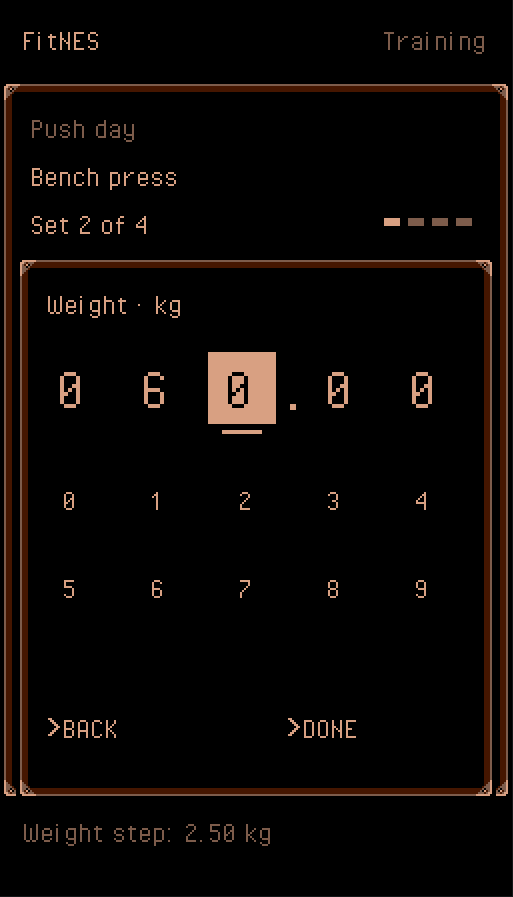
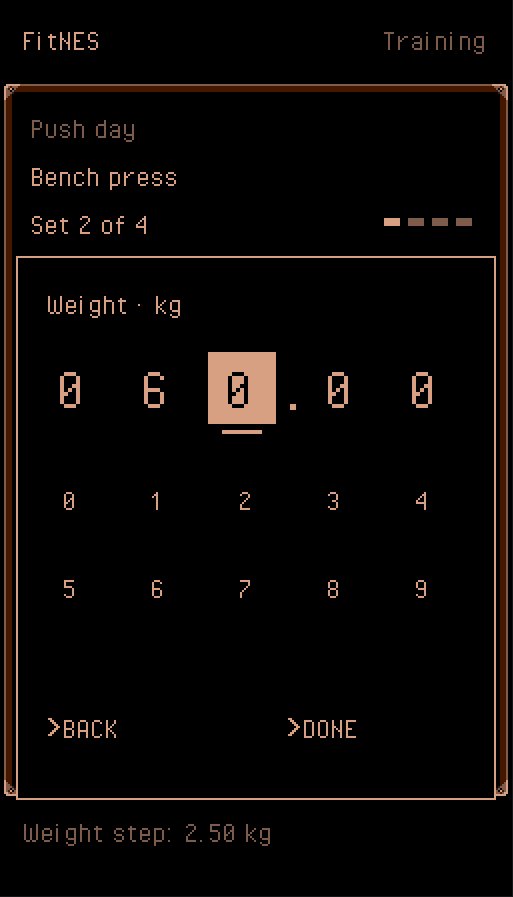
Refine numeric picker borders and press response

Changed region(s): [[0.0312, 0.2809, 0.9669, 0.9052]]

diff --git a/docs/design/touch-menus/preview.ts b/docs/design/touch-menus/preview.ts
@@ -38,6 +38,7 @@ async function start(): Promise<void> {
     const frame = new Image();
     frame.src = frameUrl;
     await frame.decode();
+    const panelArt = makeTopLevelPanel(frame);
     const requested = new URLSearchParams(location.search).get('option');
     const selected = requested ?? (matchMedia('(max-width: 1000px)').matches ? 'j' : 'all');
     if (concepts.some((concept) => concept.id === selected)) {
@@ -50,7 +51,7 @@ async function start(): Promise<void> {
     }
     for (const concept of concepts) {
         if (!document.body.dataset.single || selected === concept.id) {
-            mount(concept, frame);
+            mount(concept, panelArt);
         }
     }
     document.body.dataset.ready = 'true';
@@ -63,7 +64,7 @@ interface Concept {
     tradeoff: string;
 }
 
-function mount(concept: Concept, frame: HTMLImageElement): void {
+function mount(concept: Concept, panelArt: HTMLCanvasElement): void {
     const article = document.createElement('article');
     article.className = 'alternative';
     article.dataset.option = concept.id;
@@ -86,7 +87,7 @@ function mount(concept: Concept, frame: HTMLImageElement): void {
         pressed: '',
         edit: null,
     };
-    const demo: Demo = { concept, frame, context, controls, layer: controls, screen, state };
+    const demo: Demo = { concept, panelArt, context, controls, layer: controls, screen, state };
     let scaleApplied = 0;
     let resizeFrame = 0;
     const applyScale = () => {
@@ -109,6 +110,12 @@ function mount(concept: Concept, frame: HTMLImageElement): void {
     resize.observe(article);
     window.addEventListener('resize', applyScale);
     screen.addEventListener('keydown', (event) => handleKeys(demo, event));
+    window.addEventListener('pointerup', () => {
+        if (state.pressed) {
+            state.pressed = '';
+            render(demo, false);
+        }
+    });
     screen.addEventListener('pointerdown', (event) => {
         if (!state.edit) {
             return;
@@ -150,7 +157,7 @@ type Field = 'weight' | 'reps' | 'step';
 
 interface Demo {
     concept: Concept;
-    frame: HTMLImageElement;
+    panelArt: HTMLCanvasElement;
     context: CanvasRenderingContext2D;
     controls: HTMLDivElement;
     layer: HTMLElement;
@@ -209,7 +216,7 @@ function render(demo: Demo, rebuild = true): void {
     const interactive = rebuild && !state.edit;
     text(c, 'FitNES', 12, 12);
     text(c, 'Training', 244, 12, ink.muted, 'right');
-    panel(demo, 0, 40, 256, 360);
+    c.drawImage(demo.panelArt, 0, 40);
     text(c, 'Push day', 16, 56, ink.muted);
     text(c, exercise.name, 16, 80);
     text(c, `Set ${state.set} of 4`, 16, 104);
@@ -353,7 +360,7 @@ function spinner(demo: Demo, field: 'weight' | 'reps', x: number, y: number, w: 
     const label = mask(state.exercises[state.exercise][field], field);
     const center = x + Math.floor(w / 2);
     const measured = label.length * 7;
-    corners(c, center - measured / 2 - 4, y + 27, measured + 8, 18, state.focused === field ? 2 : 1);
+    corners(c, center - measured / 2 - 4, y + 25, measured + 8, 20, state.focused === field ? 2 : 1);
     text(c, label, center, y + 26, ink.light, 'center');
     control(
         demo,
@@ -368,11 +375,6 @@ function spinner(demo: Demo, field: 'weight' | 'reps', x: number, y: number, w: 
         false,
         true
     );
-    c.fillStyle = ink.muted;
-    c.fillRect(x + w + 4, y + 18, 18, 1);
-    c.fillRect(x + w + 4, y + 34, 18, 1);
-    c.fillRect(x + w + 4, y + 50, 18, 1);
-    c.fillRect(x + w + 21, y + 18, 1, 33);
     for (const direction of [1, -1] as const) {
         const key = `${field}-${direction}`;
         const amount = state.exercises[state.exercise][field];
@@ -433,7 +435,7 @@ function drawEditor(demo: Demo, rebuild: boolean): void {
     }
     const exercise = state.exercises[state.exercise];
     const top = popoverTop(concept);
-    panel(demo, 8, top, 240, 400 - top);
+    popoverPanel(c, 8, top, 240, 400 - top);
     text(c, `${fieldName(edit.field)}${edit.field === 'reps' ? '' : ' · kg'}`, 24, top + 16);
     const slotTop = concept.id === 'j' ? 176 : concept.id === 'k' ? 152 : 232;
     const digits = rawDigits(exercise[edit.field], edit.field);
@@ -666,16 +668,26 @@ function control(
     }
     button.disabled = disabled;
     Object.assign(button.style, { left: `${x}px`, top: `${y}px`, width: `${w}px`, height: `${h}px` });
-    button.addEventListener('click', invoke);
+    // Keyboard and assistive activation use click; pointer activation happens on press
+    button.addEventListener('click', (event) => {
+        if (event.detail === 0) {
+            invoke();
+        }
+    });
     button.addEventListener('pointerdown', (event) => {
+        if (!event.isPrimary || event.button !== 0) {
+            return;
+        }
         event.preventDefault();
         state.pressed = key;
-        render(demo, false);
+        invoke();
     });
-    for (const event of ['pointerup', 'pointercancel', 'pointerleave']) {
+    for (const event of ['pointercancel', 'pointerleave']) {
         button.addEventListener(event, () => {
-            state.pressed = '';
-            render(demo, false);
+            if (state.pressed === key) {
+                state.pressed = '';
+                render(demo, false);
+            }
         });
     }
     button.addEventListener('focus', () => {
@@ -738,8 +750,29 @@ function text(
     c.fillText(label, x, y);
 }
 
-function panel(demo: Demo, x: number, y: number, w: number, h: number): void {
-    const { context: c, frame } = demo;
+/** Rasterize the approved frame once at native size, then cache its complete top-level composition. */
+function makeTopLevelPanel(frame: HTMLImageElement): HTMLCanvasElement {
+    const tile = document.createElement('canvas');
+    tile.width = 18;
+    tile.height = 18;
+    const source = tile.getContext('2d');
+    if (!source) {
+        throw new Error('Cannot rasterize the top-level steel frame');
+    }
+    source.imageSmoothingEnabled = false;
+    source.fillStyle = ink.black;
+    source.fillRect(0, 0, 18, 18);
+    source.drawImage(frame, 0, 0, 18, 18);
+
+    const panel = document.createElement('canvas');
+    panel.width = 256;
+    panel.height = 360;
+    const c = panel.getContext('2d');
+    if (!c) {
+        throw new Error('Cannot compose the top-level steel panel');
+    }
+    const [x, y, w, h] = [0, 0, panel.width, panel.height];
+    c.imageSmoothingEnabled = false;
     c.fillStyle = ink.black;
     c.fillRect(x, y, w, h);
     for (const [sx, sw, dx, dw] of [
@@ -752,9 +785,20 @@ function panel(demo: Demo, x: number, y: number, w: number, h: number): void {
             [8, 2, y + 10, h - 20],
             [10, 8, y + h - 10, 8],
         ]) {
-            c.drawImage(frame, sx, sy, sw, sh, dx, dy, dw, dh);
+            c.drawImage(tile, sx, sy, sw, sh, dx, dy, dw, dh);
         }
     }
+    return panel;
+}
+
+function popoverPanel(c: CanvasRenderingContext2D, x: number, y: number, w: number, h: number): void {
+    c.fillStyle = ink.black;
+    c.fillRect(x, y, w, h);
+    c.fillStyle = ink.light;
+    c.fillRect(x, y, w, 1);
+    c.fillRect(x, y + h - 1, w, 1);
+    c.fillRect(x, y + 1, 1, h - 2);
+    c.fillRect(x + w - 1, y + 1, 1, h - 2);
 }
 
 function corners(c: CanvasRenderingContext2D, x: number, y: number, w: number, h: number, thickness: number): void {

diff --git a/docs/design/touch-menus/README.md b/docs/design/touch-menus/README.md
@@ -5,6 +5,11 @@ fixed numerical slots and an on-screen picker in an overlapping game window.
 All controls are semantic buttons; no text input or system keyboard is used.
 The selected bold leading action chevron and mixed-case content remain.
 
+The steel frame is used only for the top-level screen and cached as native
+bitmap artwork. Each popover has a continuous one-logical-pixel outline.
+Spinner arrows have no button borders; the 20-pixel-tall input corners align
+with their upper and lower tips. All three picker alternatives remain available.
+
 [Open the phone preview](https://fitnes-numeric-preview.eduardo-terroso.chatgpt.site/?option=j)
 with the same ChatGPT account that owns this Site. This is a separate, private
 preview with sample workouts, not the workout app's existing origin.
@@ -29,6 +34,12 @@ tap areas. These adjust the whole quantity by one rep or that exercise's weight
 increment. `More` → `Edit increment` opens the same picker for the increment.
 `More` → `Change exercise` switches between the barbell, dumbbell and cable
 examples; each has an independent increment, initially 2.50, 1.00 and 5.00 kg.
+
+Pointer interactions activate on primary press, before release; the generated
+click does not apply the action a second time. Keyboard and assistive click
+activation remain supported. There is no artificial interaction timer or
+animation delay. Repaints reuse the cached native frame rather than drawing SVG
+slices repeatedly during each interaction.
 
 Edits take effect immediately. `Done`, Escape, or tapping outside the window
 closes it; `Done` does not save a draft. `Back` clears the preceding slot and
@@ -77,6 +88,9 @@ reload persistence, bounds, dialog focus/restoration, and phone taps. At 390 CSS
 pixels / DPR 3, popover targets were at least 44×44 CSS pixels with no overlaps
 or horizontal overflow. Fifteen captured states passed exact hardware checking
 (30 slices); six popover slices reproduced in FCEUmm with zero differing pixels.
+Additional checks verified changes before release, no duplicate release action,
+keyboard activation, secondary-click rejection, continuous thin popover edges,
+borderless spinner buttons, input/arrow alignment and cached bitmap-only repaints.
 Generated native captures, ROMs and reports stay under ignored `work/`.
 
 ## Hosting and sources

diff --git a/docs/vision.md b/docs/vision.md
@@ -63,6 +63,12 @@ Initial actual reps should match the plan; weight increments should be
 configurable per exercise and equipment. Review previews must have a hosted URL
 that works on the owner's phone, rather than a workspace-local HTML link.
 
+Owner refinement (2026-11-04): retain the digit grid, number pad and digit-spinner
+alternatives. Use a thin continuous border for numerical popovers; reserve the
+steel component for the top level. Remove spinner-button borders and align the
+input corners vertically with the arrow tips. Numerical interactions should
+respond immediately, without a deliberate delay.
+
 Aim for the detail and finish of a well-made NES game. Use the **rightmost
 charcoal/steel design** in the [style reference](style-reference.png)
 as the art reference. Carry forward its dark panels, steel frames, shaped corners,
